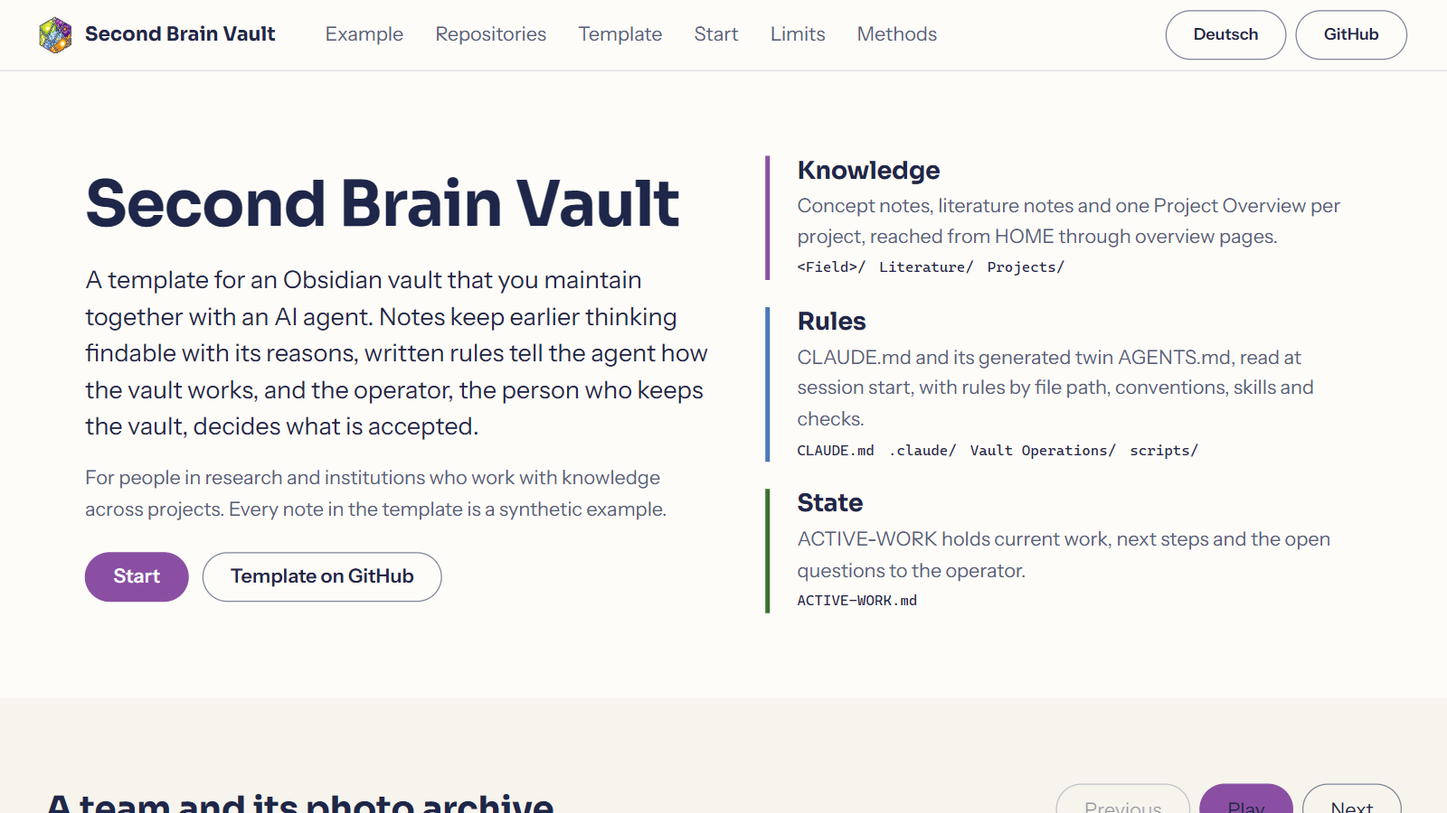
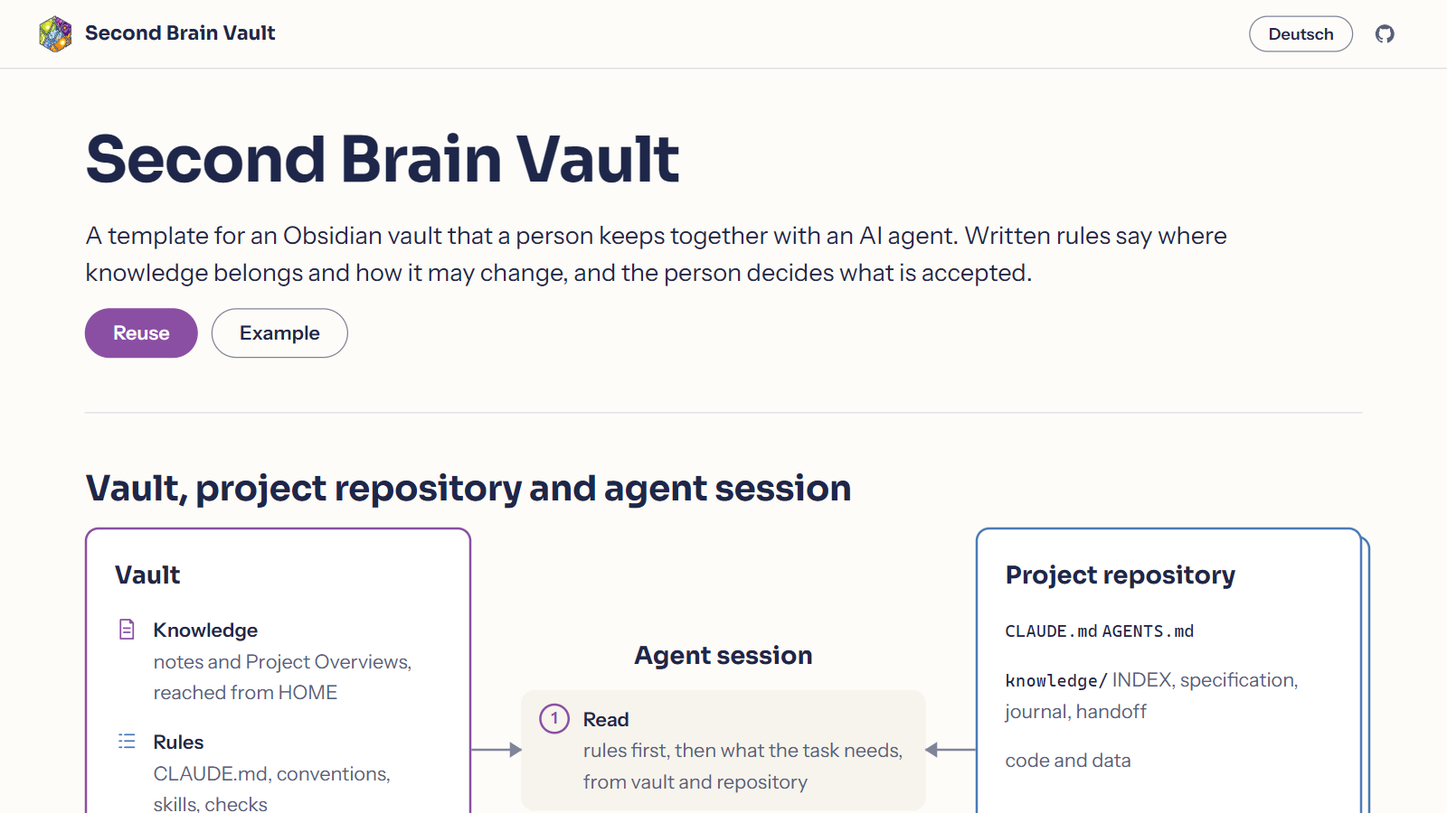
Regenerate slide screenshots and record the single-page method site in knowledge and README

diff --git a/knowledge/design.md b/knowledge/design.md
@@ -1,40 +1,34 @@
 # Design
 
-The method page in `docs/` lets a reader decide from its entry, in one or two steps, whether to reuse the template. English stands in `docs/index.html` and reads without JavaScript, German comes from `PAGE_DE` in `docs/content.js` with `?lang=de`, and `tests/test_page_text.mjs` keeps both key sets equal. The Pages workflow publishes it at <https://chpollin.github.io/second-brain-vault/> from the last state pushed to `main`, as [integration](integration.md#maintenance-and-distribution) describes, so local commits reach that address only after a push.
+The method page `docs/index.html` is one static page that a reader takes in within two minutes. It follows the seven-part structure of the DHCraft method sites in [brand-assets `web/design.md`](https://github.com/DigitalHumanitiesCraft/brand-assets/blob/main/web/design.md#page-structure-of-a-method-site), shared with Promptotyping and Grounded Vault. English stands in the HTML and reads without JavaScript. German comes from `PAGE_DE` in `docs/content.js` with `?lang=de`, and `tests/test_page_text.mjs` keeps both key sets equal. The Pages workflow publishes the page at <https://chpollin.github.io/second-brain-vault/> from the last state pushed to `main`, as [integration](integration.md#maintenance-and-distribution) describes.
 
-## Sections
+## Parts
 
-| Section | Question it answers | Form |
-|---|---|---|
-| Entry | What is this, for whom, and what does a vault consist of? | Title, one sentence, audience line, two actions, and the three layers knowledge, rules and state with their files |
-| Example | How is earlier knowledge found, decided and reused? | Stepper with named phases above the focus graph and note card; without the example data a static list of the phases |
-| Vault and project repositories | How do the vault and the `knowledge/` folders of project repositories connect, and how does confirmed knowledge return? | One HTML diagram with two boxes and three relations, and a caption on what returns |
-| Template contents | What does the template ship? | Four groups (synthetic examples, skills, rules and conventions, structure checks) with name and purpose per entry, linked to the files on GitHub |
-| Start | How do I begin? | Requirements sentence, the clone route as copyable commands, and the seven agent steps with their prompts folded |
-| Data and limits | What leaves the computer, and what does the template not do? | Two short lists |
-| Methods and citation | Where do Research Mission Control, Promptotyping and Grounded Vault fit, and how is the template cited? | Linked list and one copyable citation; the licence stands in the footer |
+| Part | Content |
+|---|---|
+| Title | Name and an abstract of two sentences, actions to Reuse and Example |
+| Main figure | Vault with the layers knowledge, rules and state, the agent session with read, work and write back, the project repository with `knowledge/`, and the Repo Directory link |
+| Origin | One sentence on the source vault, links to the manuscript, Promptotyping, Research Mission Control and Grounded Vault |
+| Terms | Every term of the figure in glossary form, one sentence each, with a link to `CLAUDE.md` |
+| Reuse | Requirements sentence and four numbered steps with copyable commands |
+| Example | Seven prompts on the synthetic photo archive in `docs/example`, each visible and copyable with one line on what it yields |
+| Limits, licence and citation | Three lines and one copyable citation |
 
-The diagram rests on [Convention Knowledge Documents](../Vault%20Operations/Conventions/Convention%20Knowledge%20Documents.md), the Repo Directory and the skill `vault-orient`. Project Overview and Repo Directory point to the repository's `knowledge/INDEX.md`. A repository session reads concept and literature notes through `vault-orient` without writing. A finding that holds beyond its project returns as a handover with goal, paths, source and evidence and enters the responsible note in a vault session once accepted. Each arrow starts and ends at the two objects it connects. On narrow screens each relation stacks as source, arrow and target in reading order.
+Each part has one heading, at most two sentences of prose and then the figure, a list or copyable blocks. What the README carries better, such as removing components or the governance techniques, is linked.
 
-The seven agent steps follow the operator's sequence of 2026-11-04: create a vault, bring sources into Markdown, think through the structure, talk it through with the agent, let the agent build it, work in knowledge, make it findable for the agent. The template enters at step 5, where the agent copies its rules, conventions, checks and skills into the new vault.
+## Main figure
+
+The figure rests on [Convention Knowledge Documents](../Vault%20Operations/Conventions/Convention%20Knowledge%20Documents.md), the Repo Directory and the skill `vault-orient`. One CSS grid holds vault, session and repository, so the reading arrows end at step 1 and the writing arrows start at step 3. A session in a project repository reads the vault without writing to it, and a finding for the vault returns as a handover that a vault session enters once accepted. On narrow screens the three blocks stack and the step texts carry the direction.
 
 ## Example
 
-The example plays one episode in three coordinated parts, specified in `docs/episode.json` and rendered by `docs/hero.js`.
+The demo runs in a clone of the template on the invented sources in `docs/example/Sources`, and the finished notes in `docs/example` are its reference solution. Its prompts follow the arc of the operator's build sequence of 2026-11-04 on synthetic material: orient, bring in sources, agree the structure, build it, write notes, decide with reasons, reuse later. Step 2 was run on a clean clone on 2026-11-10. Copying the sources and running the check reported the tags `source` and `data-management` as unregistered and the four sources as unreachable from HOME, which steps 3 and 4 resolve. The agent steps themselves were not run. A partial copy of rules into an empty folder was also tried and left many dead links, which is why the demo starts from the clone.
 
-- The focus graph shows only the notes of the episode on hand-placed positions, so labels stay readable and no link passes behind a note it does not connect. `tests/test_hero_layout.mjs` checks placement and links. Pills are sized from the rendered label. A note's state shows as outline colour, width and dash, the decision note names its state in text above it, and a one-line legend explains the code. Every pill opens its note.
-- The note card shows what the decision note says in the current phase. Its wikilinks become note buttons, and the cited notes are those highlighted in the graph. German readers see a translation of the English example note from `docs/content.js`, marked as such. The decision step shows each ground with a check mark, filing shows the linking notes, the test shows the finding and where it was recorded, and reuse compares the conditions with the new question.
-- The stepper names each phase and its actor. Done, current and next differ by mark (check, filled number, outlined number) and weight. Each step button carries its full state in its accessible name, and the caption is a live region.
-
-The example stands in its own band below the entry. The stepper with its heading and controls comes first, and on wide screens graph and card share a stage of fixed height below it, so the controls keep their position across phases. On narrow screens the stepper comes first with a status line for the current phase, the graph gives way to a list of the involved notes with their state, and the card follows at full height.
-
-## Example domain
-
-The example domain is a team's research data work: a photo archive project decides on the format of its archival masters, and an oral history project later checks whether the decision transfers to audio. It is synthetic. Its literature notes carry bibliographic entries only. `scripts/build_graph.py` turns it into `docs/graph.json`, whose notes and stems the example and the reading panel use.
+The example domain is a team's research data work. A photo archive project decides on the format of its archival masters, and an oral history project later checks whether the decision transfers to audio. Its literature notes carry bibliographic entries only.
 
 ## Knowledge explorer
 
-The operator rejected the first list/graph/full-text workspace as too text-heavy on 2026-11-08. The next slice at `docs/explorer.html` answers one question: why are photo masters TIFF, how does JPEG derive from them, and where does this decision stop applying? The previous generic note browser remains at `docs/notes.html` as a secondary destination. The example on the method page stays unchanged.
+The operator rejected the first list/graph/full-text workspace as too text-heavy on 2026-11-08. The next slice at `docs/explorer.html` answers one question: why are photo masters TIFF, how does JPEG derive from them, and where does this decision stop applying? The previous generic note browser remains at `docs/notes.html` as a secondary destination. The method page links the decision view once, from step 6 of the example.
 
 The initial view contains three compact grounds feeding the TIFF master, a directed derivation to the JPEG access copy, and the boundary between photographs and audio. The rejected JPEG-only alternative remains selectable. These are editorially curated relationships justified by the example decision and its named sources, not relation types inferred from graph topology. One selected object reveals its exact original passage and source line immediately beneath that object. Selecting another object moves the single evidence passage; Escape closes it. Native buttons provide pointer and keyboard access. Selection is addressable and follows browser history.
 
@@ -44,9 +38,7 @@ Acceptance tasks are to explain the TIFF grounds, identify JPEG as a regenerable
 
 ## Visual system
 
-The page uses the shared DHCraft web foundation, specified in [brand-assets `web/design.md`](https://github.com/DigitalHumanitiesCraft/brand-assets/blob/main/web/design.md) and copied unchanged to `docs/assets/dhcraft/` (tokens, building blocks, copy script, watercolour mark, fonts). Its design document and specimen page are not copied, because the site serves only what the page loads. `docs/site.css` maps the short names used by the page and the explorer pages onto the `--dh-*` roles and adds project colours only, the note states of the example (`--st-*`) and the three layer colours. Header, footer, buttons, code blocks with copy buttons and the skip link are the shared building blocks. The page follows the system's light or dark setting.
-
-Recorded overrides of the shared values: the light note-state colours are darkened from the brand hues so that marker text reaches 4.5:1 on paper, and the anchor offset grows on narrow screens where the header takes two rows. Sections are separated by alternating grounds. Borders are drawn for controls, the note card, the diagram boxes and the code blocks.
+The page uses the shared DHCraft web foundation, copied unchanged to `docs/assets/dhcraft/` with its licence file (tokens, building blocks, copy script, watercolour mark, fonts). Its design document and specimen page are not copied, because the site serves only what the page loads. Header, footer, buttons, code blocks with copy buttons and the skip link are the shared building blocks, laid out as on the Promptotyping start page: brand left, language and a GitHub icon right, and a footer of publisher, licence and source. `docs/site.css` maps the short role names used by the page and the explorer pages onto the `--dh-*` roles and adds the three layer colours and three line icons for the layers. The page follows the system's light or dark setting. Parts are separated by a hairline, and borders are drawn only for controls, the two boxes of the figure and the code blocks.
 
 ## Terms
 
@@ -66,6 +58,8 @@ Recorded overrides of the shared values: the light note-state colours are darken
 The site serves the template files and the synthetic example only. `scripts/build_site.py` excludes `knowledge/`, and `tests/test_site_privacy.py` fails when served files contain a `knowledge/` path, a local home path, the names of the owner's private working repositories or an email address in the example data. Statements about tools, costs and data handling follow the providers' pages linked in `docs/content.js`, read on 2026-11-04.
 
 ## Evidence
+
+On 2026-11-10, after the second round, the page was inspected at 1280 by 800 and 360 by 740 CSS pixels, light and dark, English and German, and with JavaScript switched off, through full-page captures and the built-in browser. No width showed horizontal document overflow. Without JavaScript the English page is complete, the copy buttons and the language link are absent. Actual 200 percent zoom, a screen reader and copying to the clipboard were not exercised. The static page text outside code blocks fell from 1094 to about 590 English words between the first and second round.
 
 On 2026-11-10 the rebuilt page was inspected in the built-in browser at 1280 by 800 and 360 by 740 CSS pixels, light and dark, in English and German: entry, example, diagram, template contents, start, limits and footer. No horizontal document overflow at 360 pixels. Keyboard: a stepper button changed the phase with Enter and showed its focus ring, a note button in the card opened the reading panel with Enter, and Escape closed it and returned focus. The explorer and notes pages were seen at 1280 by 800 with the shared header. The page without JavaScript was checked only in source, where English, the static phase list and every link are present and the language switch stays hidden. Actual 200 percent zoom, a screen reader and copying to the clipboard were not exercised. An independent fresh-context review from source found an inaccurate check sentence, a removal advice that would break the checks, an incomplete copy list in step 5, an unqualified licence line, colour names in the legend that no longer matched, bold label prefixes, a simile and colons joining clauses. These were corrected. Its remaining points are listed under open questions in the journal.
 
@@ -94,3 +88,4 @@ A fresh model reviewer then read the built hero in three reader roles and agains
 - 2026-11-08: the operator commissioned a knowledge explorer using the example data alongside the method page, with contextual reading and inspectable link evidence as the first design criteria. Source repositories and the local `vault-graph` clone are retained while the integration is examined.
 - 2026-11-10: following the source owner's terminology decision of that day, the page calls the LLM-driven program an agent (KI-Agent) instead of an assistant. Three statements were narrowed to what the template supports. Git keeps the committed states, parallel checking agents leave the decision on their findings to the reader, and the footer names passing checks and synthetic trials instead of general readiness. After an independent fresh-context review, step 5 has the agent copy the template's rules, checks and skills, give converted sources the required frontmatter and set up Git, because later steps and the reference depend on them. The tool line names Python for Docling as well.
 - 2026-11-10: on the operator's commission for compact, reusable method pages in one corporate design, the page was rebuilt around the reader's first decision. New sections show the three layers, the connection of vault and project repositories, the template contents, the start routes, the limits and the citation. The growing build graph and its module `docs/graph.js`, the folded reference, the night grounds and the local font copies were removed, and the shared DHCraft foundation replaced the page's own token layer. The example, the seven agent steps and the explorer pages remain. English moved into the HTML so that the page reads without JavaScript.
+- 2026-11-10, second round: on the owner's feedback that the page was still too text-heavy and too structured, it became one static page in the seven-part structure of the DHCraft method sites. The playable example with its stepper, focus graph, note card and reading panel (`docs/hero.js`, `docs/panel.js`, `docs/episode.json`, `scripts/build_graph.py` and its test) was removed, and its arc moved into a prompt demo on the synthetic sources. The template contents section and the section navigation were dropped, because the figure and the terms carry the layers and the README carries the file lists. The decision view and the note browser remain as one link.

diff --git a/knowledge/specification.md b/knowledge/specification.md
@@ -13,11 +13,11 @@ The template supports bringing together, organizing and connecting knowledge hel
 | Optional personal profile | Neutral persona template and `persona-init` | Derive an inspectable profile through source reading and dialogue, with personal claims distinguished from inference |
 | Structural checks | `scripts/check_vault.py`, generator, commit hook and tests | Check decidable requirements and report measured findings for judgement |
 | Synthetic test material | `Vault Operations/Fixtures/` and skill `evals/` | Preserve registered defects and expected behaviour for bounded trials |
-| Public method page | `docs/index.html`, `docs/content.js`, `docs/site.css`, `docs/assets/dhcraft/`, `scripts/build_site.py` and `scripts/build_graph.py` | Explain the template, its layers, its connection to project repositories, its contents, start and limits in English and German with a synthetic example domain, readable without JavaScript, without serving `knowledge/` |
+| Public method page | `docs/index.html`, `docs/content.js`, `docs/site.css`, `docs/assets/dhcraft/` and `scripts/build_site.py` | One static page in the seven parts of the DHCraft method sites, in English and German, readable without JavaScript, with a prompt demo on the synthetic example domain, without serving `knowledge/` |
 | Knowledge explorer | `docs/explorer.html`, `docs/decision.js`, `docs/decision.css` | Follow the curated visual grounds, derivation and scope of the photo-format decision; select an object to read its original evidence in place. The generic note browser remains at `docs/notes.html` |
 | Research procedure | [Evaluation](evaluation.md) and [episode template](episode-template.md) | Preserve the sources, interventions and outcomes of an observed episode, with missing stages explicit |
 
-The repository distributes the method page and synthetic knowledge explorer. Its generated `docs/data.json`, `docs/graph.json` and `docs/explorer.json` are ignored and are built locally before checks or preview. The Pages workflow builds them from the published source, runs structural checks, Python tests including the site privacy test, Ruff checks, the Node.js link, hero layout, explorer route and page text tests and a syntax check of every page script, then deploys `docs/` as an artifact. The generated data is never committed. Stale generated agent instructions still fail the checks.
+The repository distributes the method page and synthetic knowledge explorer. Its generated `docs/data.json` and `docs/explorer.json` are ignored and are built locally before checks or preview. The Pages workflow builds them from the published source, runs structural checks, Python tests including the site privacy test, Ruff checks, the Node.js link, explorer route and page text tests and a syntax check of every page script, then deploys `docs/` as an artifact. The generated data is never committed. Stale generated agent instructions still fail the checks.
 
 Skills are executable procedures when an agent reads and follows them. A skill file alone installs no runtime, account connection or tool. The actual host determines which operations are available.
 
@@ -43,17 +43,16 @@ Run the following after a template change:
 ```powershell
 python scripts/render_agents_md.py
 python scripts/build_site.py
-python scripts/build_graph.py
 python scripts/build_explorer.py
 python scripts/build_explorer.py --check
 python scripts/check_vault.py
 python -m pytest -q
 python -m ruff check .
 python -m ruff format --check .
-node --test tests/test_markdown_links.mjs tests/test_hero_layout.mjs tests/test_explorer_route.mjs tests/test_page_text.mjs
+node --test tests/test_markdown_links.mjs tests/test_explorer_route.mjs tests/test_page_text.mjs
 Get-ChildItem docs/*.js, docs/assets/dhcraft/*.js | ForEach-Object { node --check $_.FullName }
 ```
 
-Page development requires Node.js for the link and hero layout tests and the syntax check. The published page runs in the browser without Node.js.
+Page development requires Node.js for the link, route and page text tests and the syntax check. The published page runs in the browser without Node.js.
 
 Inspect measured findings even when the command exits successfully. The checker covers links, anchors and reachability, with no counterpart here to the larger audit engine of the personal source vault. Skill case results remain in [skill evaluation](skill-evaluation.md). These checks do not evaluate conversational quality or the scholarly validity of a new research claim.

diff --git a/README.md b/README.md
@@ -42,7 +42,6 @@ These steps take a few minutes and end with two visible results, a clean check r
 
    ```sh
    python scripts/build_site.py
-   python scripts/build_graph.py
    python scripts/build_explorer.py
    python scripts/check_vault.py
    ```
@@ -175,13 +174,13 @@ second-brain-vault/
 
 ### Method page and knowledge explorer
 
-`docs/` holds the method page and a knowledge explorer over the synthetic example notes in `docs/example/`. Both read JSON files that the three `scripts/build_*.py` builders generate and that Git ignores, together with the versioned example episode `docs/episode.json`. To preview them locally, run the builders and serve the folder.
+`docs/` holds the method page and a knowledge explorer over the synthetic example notes in `docs/example/`. The page is static HTML. The explorer and the commit check read JSON files that `scripts/build_site.py` and `scripts/build_explorer.py` generate and that Git ignores. To preview them locally, run the builders and serve the folder.
 
 ```sh
 python -m http.server --directory docs
 ```
 
-Then open `http://localhost:8000`, `http://localhost:8000/?lang=de` and `http://localhost:8000/explorer.html`. The workflow `.github/workflows/pages.yml` builds the data, runs the checks and publishes `docs/` when `main` is pushed. It requires the repository's Pages source to be set to GitHub Actions. Removing the pages requires adapting their data checks, privacy test, navigation links and workflow before deleting the files.
+Then open `http://localhost:8000`, `http://localhost:8000/?lang=de` and `http://localhost:8000/explorer.html`, the decision view of the example, with the note browser `notes.html`. The workflow `.github/workflows/pages.yml` builds the data, runs the checks and publishes `docs/` when `main` is pushed. It requires the repository's Pages source to be set to GitHub Actions. Removing the pages requires adapting their data checks, privacy test, navigation links and workflow before deleting the files.
 
 ## What is deliberately left out
 
@@ -202,7 +201,7 @@ Each keeps its own specification in its own repository, and none is installed by
 
 ## Licence and citation
 
-Text and documentation are licensed under CC BY 4.0, code under MIT, as [LICENSE.md](LICENSE.md) states. The shared DHCraft files under `docs/assets/dhcraft/`, copied from [brand-assets](https://github.com/DigitalHumanitiesCraft/brand-assets), keep their own terms, which includes the DHCraft logo and the fonts under the SIL Open Font License.
+Text and documentation are licensed under CC BY 4.0, code under MIT, as [LICENSE.md](LICENSE.md) states. The scripts and stylesheets of the method page are MIT as well. The shared DHCraft files under `docs/assets/dhcraft/`, copied from [brand-assets](https://github.com/DigitalHumanitiesCraft/brand-assets), carry their own licence file: MIT for stylesheets and script, the DHCraft logo excluded, the fonts under the SIL Open Font License.
 
 To cite the template, name author, title, year and repository:
 

diff --git a/knowledge/integration.md b/knowledge/integration.md
@@ -38,7 +38,7 @@ WEFT's application-profile work is a possible source for explicit relation types
 
 Since 2026-10-31 this repository is its own maintenance source and is edited directly. Before that, the folder `second-brain-vault/` in the private `knowledge-structures` repository was the maintenance source and this repository received file-tree snapshots from it. That folder is frozen at the last snapshot, and its earlier history, which holds documents of a private research prototype, stays in the private repository. The [published site](https://chpollin.github.io/second-brain-vault/) represents its deployed state. Local changes, synchronization and publication are separate operations.
 
-Distribution includes the method page and knowledge explorer under `docs/` and `.github/workflows/pages.yml`. The workflow builds the ignored `docs/data.json`, `docs/graph.json` and `docs/explorer.json` from the checked-out public template and its synthetic example, then deploys the checked `docs/` artifact on a push to `main` or a manual run. Repository Pages settings must select GitHub Actions for this workflow to own deployment. Successful local checks do not establish that the remote workflow ran or that its artifact is live.
+Distribution includes the method page and knowledge explorer under `docs/` and `.github/workflows/pages.yml`. The workflow builds the ignored `docs/data.json` and `docs/explorer.json` from the checked-out public template and its synthetic example, then deploys the checked `docs/` artifact on a push to `main` or a manual run. Repository Pages settings must select GitHub Actions for this workflow to own deployment. Successful local checks do not establish that the remote workflow ran or that its artifact is live.
 
 The maintained personal vault remains the place where its own rules are used and revised. The initial template was derived manually. Whether future transfer of rules from the personal vault should be automated, or the template should become the upstream source for personal instances, remains an operator decision. Template-specific skill corrections do not automatically install into the personal vault.
 

diff --git a/knowledge/journal.md b/knowledge/journal.md
@@ -1,5 +1,9 @@
 # Journal
 
+## 2026-11-10 Method page as one static page in seven parts
+
+The owner found the first rebuild still too text-heavy and too structured and asked for one static page. The page now follows the seven parts of the DHCraft method sites, fixed in brand-assets `web/design.md` and shared with Promptotyping and Grounded Vault: title and abstract, a main figure with vault layers, agent session and project repository, origin, terms, reuse, a prompt demo on the synthetic photo archive, and limits with licence and citation. The playable example with stepper, focus graph, note card and reading panel, the graph builder and its test, the template contents section and the section navigation were removed. The decision view and the note browser remain as one link. The shared web files are MIT with the logo excluded, recorded in `LICENSE.md` and the copied licence file. Slide screenshots under `docs/images/` were regenerated. Details are in [design](design.md#decisions).
+
 ## 2026-11-10 Method page rebuilt on the shared DHCraft foundation
 
 Commissioned to make Second Brain Vault, Research Mission Control and Promptotyping reusable from one level, with finished frontends in one corporate design. The page now answers from its entry what the vault is, its layers, how it connects to project repositories and their `knowledge/` folders, what the template contains, how to start, its limits, the related methods and the citation. The diagram of vault and repositories is new and draws on Convention Knowledge Documents, the Repo Directory and `vault-orient`. The growing build graph, the folded reference and the page's own tokens and fonts were removed; the shared files from brand-assets now carry tokens, header, footer, buttons and code blocks. Slide screenshots at 1600 by 900 lie under `docs/images/`. Details and checks are in [design](design.md#decisions) and [design](design.md#evidence).
